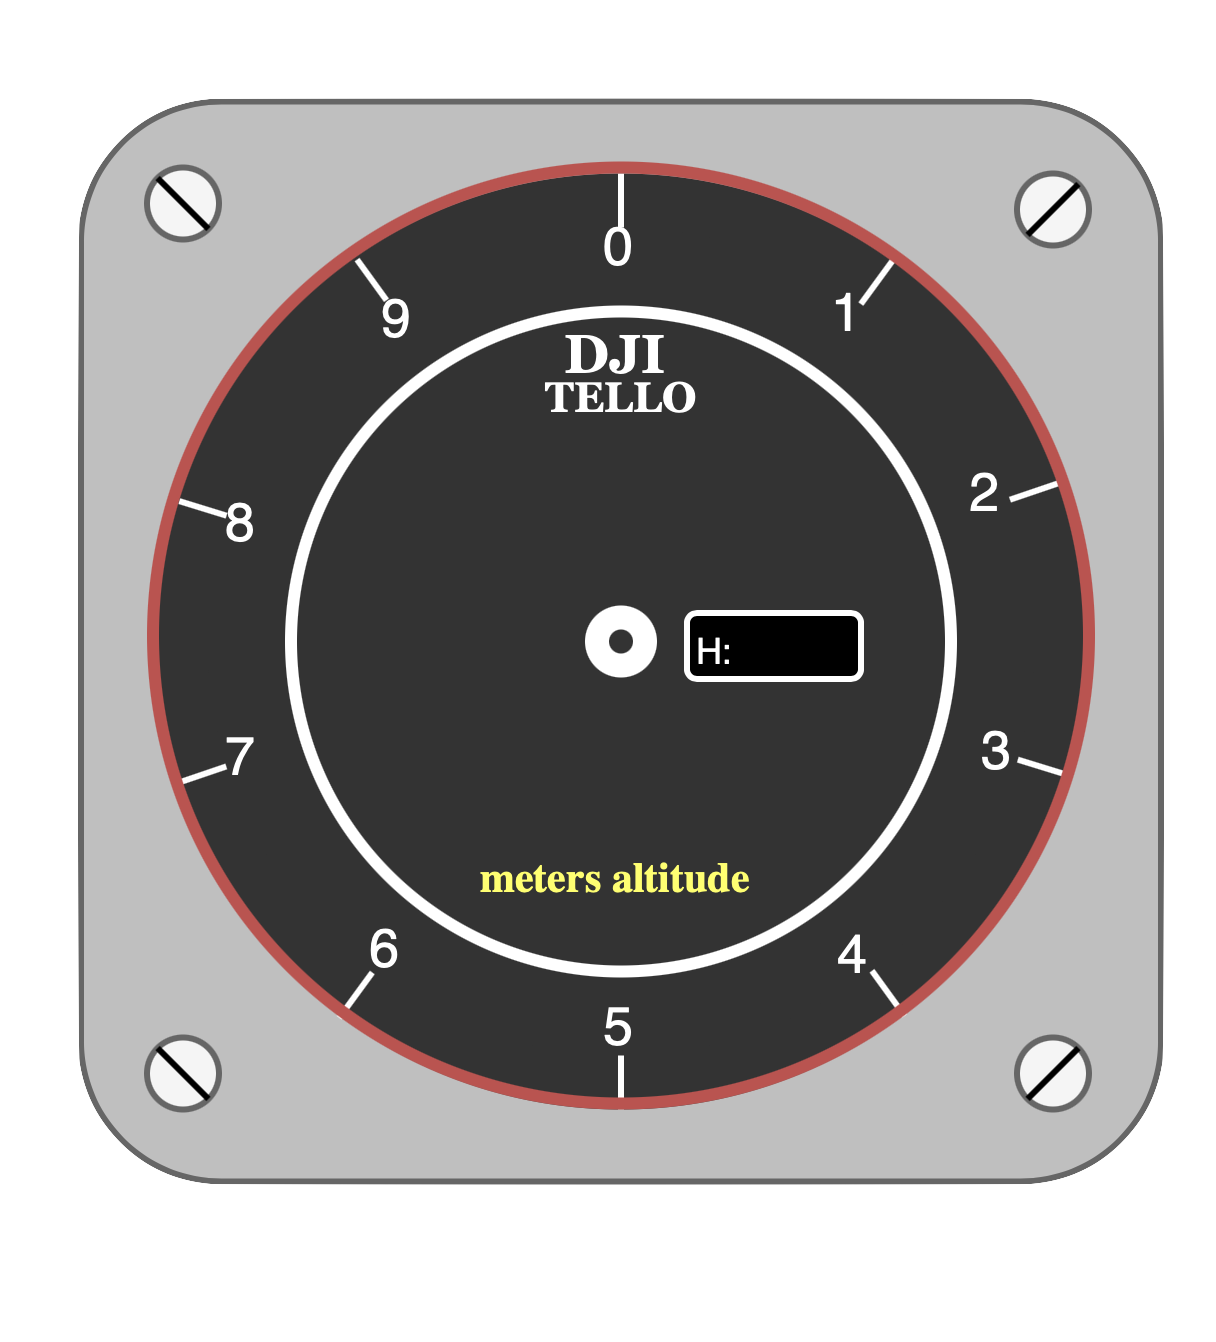
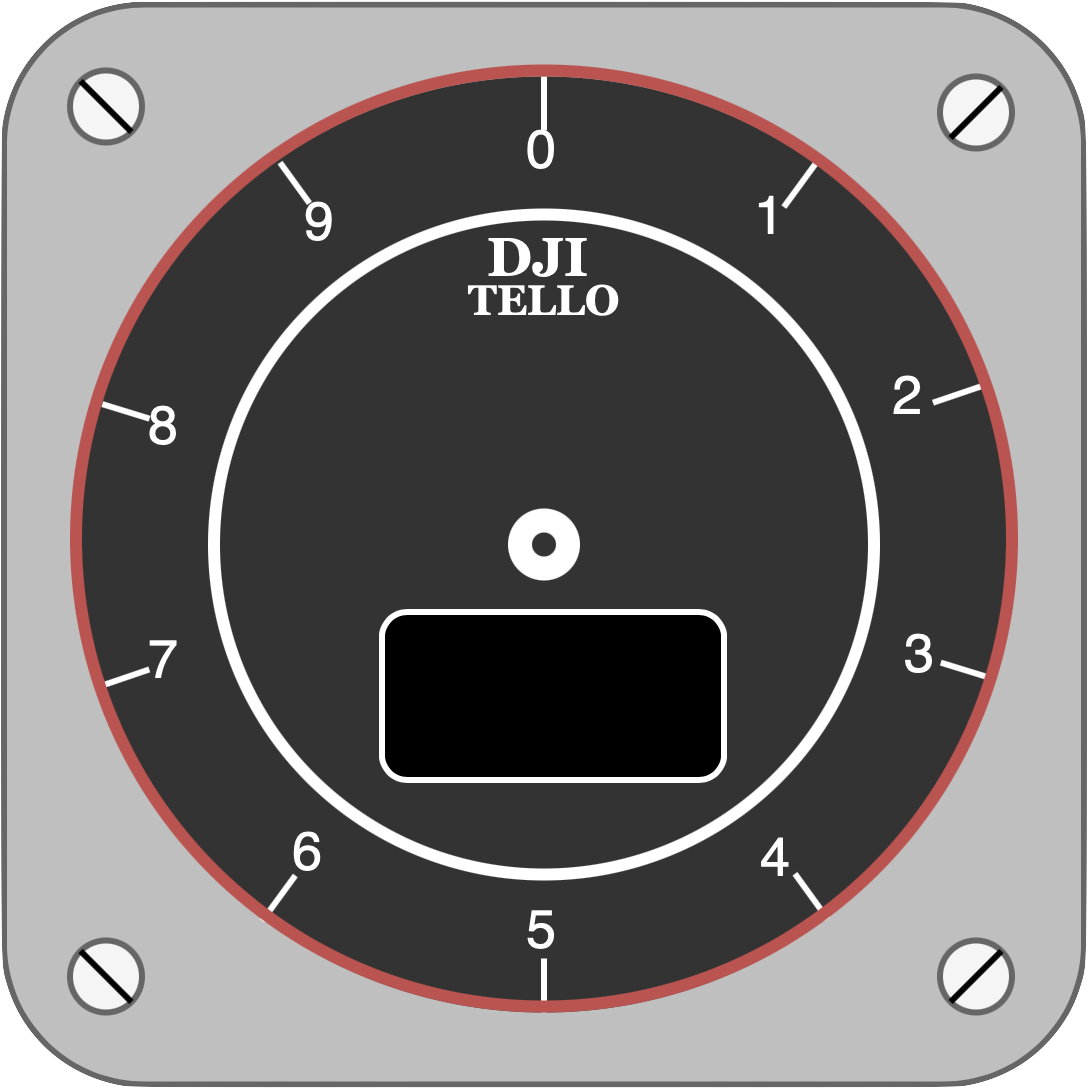
Aggiormento grafica.
Ho aggiornato le icone dell'altimetro, migliorandole e rendendola più precisa. Ho anche aggiornato la classe per disegnare l'altimetro. C'è un problema sull'allineamento del JLabel

diff --git a/src/Drone2.0/src/graphics/AltimeterPanel.java b/src/Drone2.0/src/graphics/AltimeterPanel.java
@@ -1,10 +1,95 @@
 package graphics;
 
+import java.awt.Color;
+import java.awt.Font;
+import java.awt.Graphics;
+import java.awt.Image;
+import javax.swing.ImageIcon;
+import javax.swing.JLabel;
+import javax.swing.JTextField;
+
 /**
  *
  * @author Michea Colautti
  * @version 07.10.2021
  */
-public class AltimeterPanel extends Model{
+public class AltimeterPanel extends Model {
+
+    /**
+     * Label contenente l'altitudine e l'unità di misura.
+     */
+    public JLabel alt;
+
+    /**
+     * Valore contenente l'altitudine.
+     */
+    private double altitude = 0;
     
+    
+    private Font font1;
+    /**
+     * Costruttore della classe. Permette di istanziare le due immagini e
+     * richiama 'initComponents'.
+     */
+    public AltimeterPanel() {
+        ImageIcon icon;
+        icon = new ImageIcon(getClass().getClassLoader().getResource("Altimetro.png"));
+        Image image = icon.getImage();
+        imageBig = toBufferedImage(image);
+        this.setLayout(null);
+        
+        alt = new JLabel("H: "+altitude + "");
+        font1 = new Font("SansSerif", Font.BOLD, 10);
+        alt.setFont(font1);
+        alt.setForeground(Color.WHITE);
+        alt.setLocation((int)(this.getWidth()/2.6), 
+                (int)(this.getHeight()/1.8));
+        
+        
+        add(alt);
+
+    }
+
+    @Override
+    /**
+     * Metodo che mi peremtte di disegnare le componenti. Non eseguo un
+     * controllo sui gradi massimi poichè quest'immagine è libera di muoversi su
+     * 360 gradi.
+     */
+    public void paintComponent(Graphics g) {
+        //System.out.println("TOT: "+this.getWidth()+" | "+this.getHeight());
+        //System.out.println("lab: "+alt.getX()+" | "+alt.getY());
+        
+        alt.setLocation((this.getWidth()/3), 
+                (this.getHeight()/2));
+        
+        alt.setSize(this.getWidth()/4,this.getWidth()/6);
+        font1=new Font("SansSerif", Font.BOLD, 20);
+        alt.setFont(font1);
+        
+        g.setColor(Color.WHITE);
+        g.fillRect(0, 0, getWidth(), getHeight());
+        g.setColor(Color.BLACK);
+        g.drawRect(0, 0, getWidth(), getHeight());
+        panelH = getHeight();
+        panelW = getWidth();
+
+        if (panelW >= panelH) {
+            panelW = panelH;
+
+        } else {
+            panelH = panelW;
+        }
+
+        if (imageBig != null) {
+            image = resize(imageBig, panelH, panelW);
+
+            int x = (this.getWidth() - image.getWidth()) / 2;
+            int y = (this.getHeight() - image.getHeight()) / 2;
+
+            g.drawImage(image, x, y, this);
+
+        }
+
+    }
 }

diff --git a/src/Drone2.0/src/graphics/UpPanel.java b/src/Drone2.0/src/graphics/UpPanel.java
@@ -49,6 +49,7 @@ public class UpPanel extends Model {
         g.setColor(Color.WHITE);
         g.fillRect(0, 0, getWidth(), getHeight());
         g.setColor(Color.BLACK);
+        g.drawRect(0, 0, getWidth(), getHeight());
 
         panelH = getHeight();
         panelW = getWidth();
@@ -67,8 +68,7 @@ public class UpPanel extends Model {
         poi ridimensionare il drone di conseguenza.
          */
         droneS = droneS - (droneHypo - droneS);
-
-        deg = -45;
+        
         if (imageBig != null) {
             image = resize(imageBig, droneS, droneS);
 
